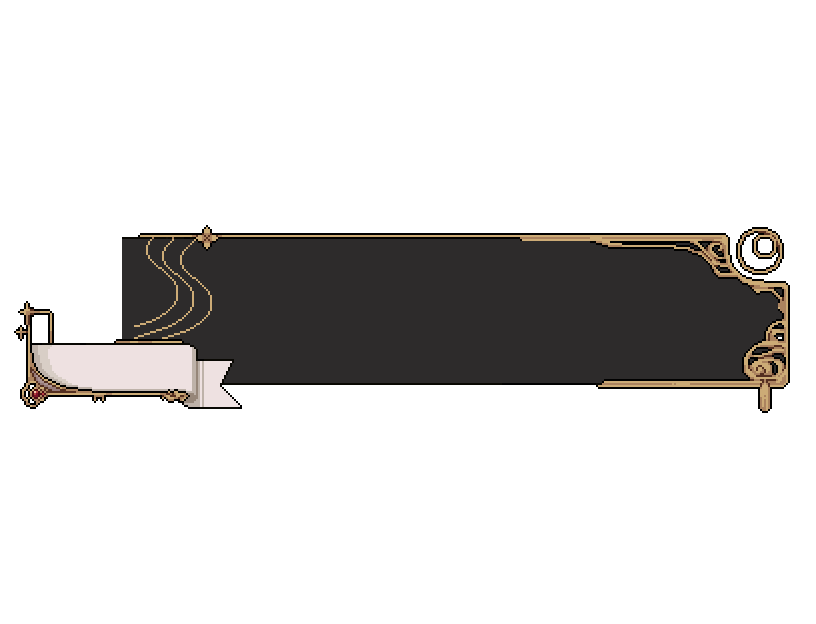
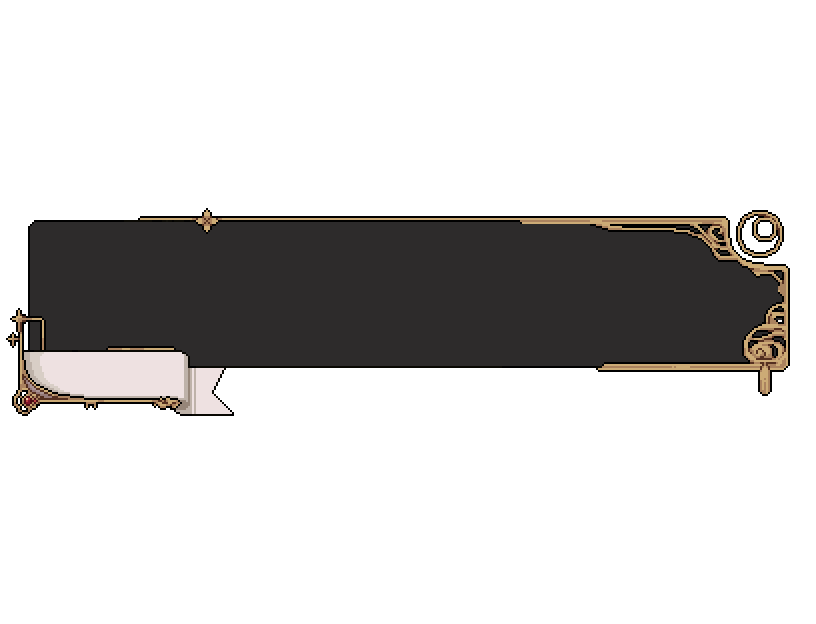
3/13 调整对话框

Changed region(s): [[0.0, 0.3349, 0.9804, 0.6699]]

diff --git a/js/plugins.js b/js/plugins.js
@@ -15,15 +15,15 @@ var $plugins =
 {"name":"----地图----","status":false,"description":"","parameters":{}},
 {"name":"GALV_LayerGraphics","status":true,"description":"(v.2.0) Create graphic layers for parallax mapping, fog, etc. View the 'Help' document for plugin commands and info.","parameters":{"Tile Size":"48"}},
 {"name":"----对话框----","status":false,"description":"","parameters":{}},
-{"name":"YEP_MessageCore","status":true,"description":"v1.19 [v1.1]  对话框 - 消息核心","parameters":{"---对话框---":"","默认行数":"4","默认宽度":"Graphics.boxWidth-100","含头像时文字间距":"Window_Base._faceWidth","初始是否启用快进键":"true","快进键":"pagedown","是否启用英文单词换行":"false","是否启用帮助窗口单词换行":"false","是否把所有换行符变成空格":"false","含头像时是否缩小文字宽度":"false","---消息字体---":"","默认模式的消息字体":"GameFont, IPix","中文模式的消息字体":"GameFont, IPix","日韩模式的消息字体":"GameFont, IPix","默认消息字体大小":"24","默认消息文字边厚度":"4","是否保持特殊字符的改变":"false","---姓名框---":"","平移-姓名框 X":"10","平移-姓名框 Y":"160","姓名框内边距":"this.standardPadding() * 4","姓名框文本颜色":"0","姓名框前缀":"\\c[15]\\{","是否关闭姓名框背景":"true","姓名框是否长期显示":"true"}},
+{"name":"YEP_MessageCore","status":true,"description":"v1.19 [v1.1]  对话框 - 消息核心","parameters":{"---对话框---":"","默认行数":"4","默认宽度":"Graphics.boxWidth-100","含头像时文字间距":"","初始是否启用快进键":"true","快进键":"pagedown","是否启用英文单词换行":"false","是否启用帮助窗口单词换行":"false","是否把所有换行符变成空格":"false","含头像时是否缩小文字宽度":"false","---消息字体---":"","默认模式的消息字体":"GameFont, IPix","中文模式的消息字体":"GameFont, IPix","日韩模式的消息字体":"GameFont, IPix","默认消息字体大小":"24","默认消息文字边厚度":"4","是否保持特殊字符的改变":"false","---姓名框---":"","平移-姓名框 X":"-40","平移-姓名框 Y":"175","姓名框内边距":"this.standardPadding() * 4","姓名框文本颜色":"0","姓名框前缀":"\\c[15]","是否关闭姓名框背景":"true","姓名框是否长期显示":"true"}},
 {"name":"GALV_MessageBackground","status":true,"description":"(v.2.0) Displays an image behind messages in place of the windowskin","parameters":{"Image Variable ID":"1","Disable Switch ID":"1"}},
-{"name":"GALV_MessageBusts","status":true,"description":"(v.2.8) Displays a bust image instead of selected face image","parameters":{"Bust Priority":"1","Bust Position":"1","Text X Offset":"150","Fade Out Speed":"32","Filename Append":""}},
+{"name":"GALV_MessageBusts","status":true,"description":"(v.2.8) Displays a bust image instead of selected face image","parameters":{"Bust Priority":"0","Bust Position":"1","Text X Offset":"0","Fade Out Speed":"32","Filename Append":""}},
 {"name":"----UI美化----","status":false,"description":"","parameters":{}},
 {"name":"MOG_TimeSystem","status":true,"description":"(v1.6)[v1.3]  地图UI - 时间系统","parameters":{"---系统---":"","是否默认运行":"true","执行事件时是否停止":"true","对话时是否停止":"true","时间流动速度":"120","是否使用色调变换":"true","色调变换速度":"160","---用语---":"","星期名":"[\"周日\",\"周一\",\"周二\",\"周三\",\"周四\",\"周五\",\"周六\"]","季节名":"[\"春\",\"夏\",\"秋\",\"冬\"]","月份名":"[\"一月\",\"二月\",\"三月\",\"四月\",\"五月\",\"六月\",\"七月\",\"八月\",\"九月\",\"十月\",\"十一月\",\"十二月\"]","用语-时间":"时间","用语-星期":"星期","用语-季节":"季节","用语-日":"日","用语-月":"月","用语-年":"年","用语-游戏时长":"游戏时长","---触发开关---":"","黎明开关":"21","日出开关":"22","日间开关":"23","日落开关":"24","黄昏开关":"25","午夜开关":"26","白天开关":"27","黑夜开关":"28","星期开关":"[\"29\",\"30\",\"31\",\"32\",\"33\",\"34\",\"35\"]","月份开关":"[\"40\",\"41\",\"42\",\"43\",\"44\",\"45\",\"46\",\"47\",\"48\",\"49\",\"50\",\"51\"]","季节开关":"[\"36\",\"37\",\"38\",\"39\"]","---触发变量---":"","时":"13","分":"14","秒":"15","年":"16","月":"17","日":"18","星期":"19","季节":"20","---时间最大值---":"","最大分钟数":"60","最大小时数":"24","最大日期数":"30","最大星期数":"7","最大月份数":"12","最大季节数":"4","季节月跨度":"3","---时间初始化---":"","初始分钟":"0","初始小时":"12","初始日期":"1","初始星期":"1","初始月份":"1","初始季节":"1","初始年数":"1","是否根据日期自动算星期":"false","---画面色调---":"","黎明色调":"-60,-60,-60,0","日出色调":"30,30,30,0","日落色调":"36,-14,-14,0","黄昏色调":"-60,-60,-60,0","午夜色调":"-98,-98,-98,0","白天色调":"0,0,0,0","---窗口---":"","是否使用am/pm模式":"true","窗口是否在地图上显示":"true","窗口是否在菜单上显示":"false","平移-地图窗口 X":"576","平移-地图窗口 Y":"0","平移-菜单窗口 X":"0","平移-菜单窗口 Y":"324"}},
 {"name":"MOG_TimeSystem_Hud","status":true,"description":"(v1.7)[v1.4]  地图UI - 时间系统固定框","parameters":{"是否初始显示":"true","资源-固定框":"显示UI","平移-固定框 X":"510","平移-固定框 Y":"0","最小透明度":"60","字体大小":"22","字体是否为斜体":"true","是否显示指针":"false","资源-分针":"","资源-时针":"","平移-指针 X":"100","平移-指针 Y":"90","分针是否无缝转动":"false","时针是否无缝转动":"false","是否显示计时器":"false","平移-计时器 X":"70","平移-计时器 Y":"30","是否显示日期数值":"false","平移-日期数值 X":"70","平移-日期数值 Y":"2","是否显示月份数值":"false","平移-月份数值 X":"30","平移-月份数值 Y":"2","是否显示年数值":"false","平移-年数值 X":"-17","平移-年数值 Y":"2","是否显示时间段图标":"true","资源-时间段图标":"时间段图标","平移-时间段图标 X":"214","平移-时间段图标 Y":"24","是否显示季节图标":"false","资源-季节图标":"","平移-季节图标 X":"88","平移-季节图标 Y":"88","是否显示星期文字":"false","平移-星期文字 X":"40","平移-星期文字 Y":"44"}},
 {"name":"MOG_ActorHud","status":true,"description":"(v1.9)[v1.6]  地图UI - 玩家信息固定框","parameters":{"是否初始显示":"true","资源-固定框":"生命框","平移-整个固定框 X":"510","平移-整个固定框 Y":"0","最小透明度":"60","------头像------":"","是否显示头像":"false","平移-头像 X":"55","平移-头像 Y":"50","受伤是否震动头像":"true","头像是否使用缩放效果":"true","受伤头像动画帧":"false","头像的优先权":"1","------角色名------":"","是否显示角色名":"false","平移-角色名 X":"5","平移-角色名 Y":"20","角色名字体大小":"20","角色名字体粗细":"4","角色名字体是否为斜体":"false","------生命------":"","是否显示生命条":"false","资源-生命条":"","平移-生命条 X":"130","平移-生命条 Y":"50","角度-生命条":"0","生命条是否流动":"false","是否显示生命数值":"false","资源-生命数值":"","生命数值最大显示位":"6","平移-生命数值 X":"0","平移-生命数值 Y":"50","生命数值文本对齐方式":"0","是否显示最大生命数值":"false","平移-最大生命数值 X":"185","平移-最大生命数值 Y":"40","是否显示生命图标":"true","资源-生命图标":"生命图标","是否使用半血模式":"false","生命图标值跨度":"1","生命图标种类最大数量":"2","生命图标列数":"5","生命图标行数":"1","平移-生命图标 X":"160","平移-生命图标 Y":"115","生命图标间距 X":"-5","生命图标间距 Y":"0","生命图标是否使用缩放效果":"false","------魔法------":"","是否显示魔法条":"false","资源-魔法条":"","平移-魔法条 X":"160","平移-魔法条 Y":"115","角度-魔法条":"0","魔法条是否流动":"false","是否显示魔法数值":"false","资源-魔法数值":"","魔法数值最大显示位":"6","平移-魔法数值 X":"287","平移-魔法数值 Y":"100","魔法数值文本对齐方式":"0","是否显示最大魔法数值":"false","平移-最大魔法数值 X":"196","平移-最大魔法数值 Y":"78","是否显示魔法图标":"false","资源-魔法图标":"","是否使用半魔模式":"false","魔法图标值跨度":"1","魔法图标种类最大数量":"7","魔法图标列数":"20","魔法图标行数":"1","平移-魔法图标 X":"50","平移-魔法图标 Y":"20","魔法图标间距 X":"0","魔法图标间距 Y":"0","魔法图标是否使用缩放效果":"true","------怒气------":"","是否显示怒气条":"false","资源-怒气条":"","平移-怒气条 X":"143","平移-怒气条 Y":"145","角度-怒气条":"0","怒气条是否流动":"true","是否显示怒气数值":"false","怒气数值最大显示位":"3","资源-怒气数值":"","平移-怒气数值 X":"270","平移-怒气数值 Y":"130","怒气数值文本对齐方式":"0","是否显示最大怒气数值":"false","平移-最大怒气数值 X":"185","平移-最大怒气数值 Y":"116","是否显示怒气图标":"false","资源-怒气图标":"","是否使用半怒模式":"false","怒气图标值跨度":"1","怒气图标种类最大数量":"7","怒气图标列数":"10","怒气图标行数":"1","平移-怒气图标 X":"50","平移-怒气图标 Y":"20","怒气图标间距 X":"0","怒气图标间距 Y":"0","怒气图标是否使用缩放效果":"true","------经验------":"","是否显示经验条":"false","资源-经验条":"","平移-经验条 X":"127","平移-经验条 Y":"173","角度-经验条":"0","是否显示等级数值":"false","等级数值最大显示位":"4","平移-等级数值 X":"65","平移-等级数值 Y":"153","等级数值文本对齐方式":"1","资源-等级数值":"","------状态------":"","是否显示状态":"false","平移-状态 X":"5","平移-状态 Y":"64","---------------------------":"","---角色头像 1至20---":"","角色头像-1":"","角色头像-2":"","角色头像-3":"","角色头像-4":"","角色头像-5":"","角色头像-6":"","角色头像-7":"","角色头像-8":"","角色头像-9":"","角色头像-10":"","角色头像-11":"","角色头像-12":"","角色头像-13":"","角色头像-14":"","角色头像-15":"","角色头像-16":"","角色头像-17":"","角色头像-18":"","角色头像-19":"","角色头像-20":"","---角色头像21至40---":"","角色头像-21":"","角色头像-22":"","角色头像-23":"","角色头像-24":"","角色头像-25":"","角色头像-26":"","角色头像-27":"","角色头像-28":"","角色头像-29":"","角色头像-30":"","角色头像-31":"","角色头像-32":"","角色头像-33":"","角色头像-34":"","角色头像-35":"","角色头像-36":"","角色头像-37":"","角色头像-38":"","角色头像-39":"","角色头像-40":"","---角色头像41至60---":"","角色头像-41":"","角色头像-42":"","角色头像-43":"","角色头像-44":"","角色头像-45":"","角色头像-46":"","角色头像-47":"","角色头像-48":"","角色头像-49":"","角色头像-50":"","角色头像-51":"","角色头像-52":"","角色头像-53":"","角色头像-54":"","角色头像-55":"","角色头像-56":"","角色头像-57":"","角色头像-58":"","角色头像-59":"","角色头像-60":""}},
 {"name":"----菜单----","status":false,"description":"","parameters":{}},
-{"name":"MOG_SceneItem","status":true,"description":"(v1.1)[v1.8]  面板 - 全自定义道具界面","parameters":{"----杂项----":"","资源-整体布局":"道具界面-布局","平移-帮助信息 X":"0","平移-帮助信息 Y":"516","----物品类型----":"","资源-道具选项":"道具界面-道具选项","平移-道具选项 X":"280","平移-道具选项 Y":"50","资源-武器选项":"道具界面-武器选项","平移-武器选项 X":"420","平移-武器选项 Y":"50","资源-防具选项":"道具界面-防具选项","平移-防具选项 X":"560","平移-防具选项 Y":"50","资源-关键道具选项":"道具界面-关键道具选项","平移-关键道具选项 X":"700","平移-关键道具选项 Y":"50","是否使用缩放效果":"false","是否使用闪烁效果":"false","浮动偏移量":"8","是否使用左右浮动":"false","是否使用上下浮动":"true","----物品窗口----":"","平移-物品窗口 X":"0","平移-物品窗口 Y":"96","物品窗口左起点 X":"-60","物品窗口左起点 Y":"0","物品窗口右起点 X":"60","物品窗口右起点 Y":"0","物品窗口移动时长":"30","是否使用物品窗口布局":"true","资源-物品窗口":"道具界面-物品窗口","平移-物品窗口布局 X":"0","平移-物品窗口布局 Y":"0","物品窗口宽度":"370","物品窗口高度":"400","物品窗口字体大小":"22","物品窗口列数":"1","----选择框----":"","资源-选择框":"道具界面-选择框","资源-界限箭头":"道具界面-界限箭头","资源-选择全部角色":"道具界面-选择全部角色","平移-选择框-当前 X":"10","平移-选择框-当前 Y":"240","平移-选择框-隐藏 X":"-270","平移-选择框-隐藏 Y":"240","平移-选择框-上一个 X":"-10","平移-选择框-上一个 Y":"140","平移-选择框-下一个 X":"-10","平移-选择框-下一个 Y":"340","选择框字体大小":"20","平移-框角色名 X":"20","平移-框角色名 Y":"40","资源-生命条":"道具界面-生命条","平移-生命条 X":"16","平移-生命条 Y":"30","平移-生命数值 X":"20","平移-生命数值 Y":"3","资源-魔法条":"道具界面-魔法条","平移-魔法条 X":"113","平移-魔法条 Y":"30","平移-魔法数值 X":"118","平移-魔法数值 Y":"3","平移-框角色状态 X":"165","平移-框角色状态 Y":"30","----角色窗口----":"","平移-角色窗口 X":"600","平移-角色窗口 Y":"200","角色窗口起点 X":"100","角色窗口起点 Y":"0","角色窗口移动时长":"20","资源-角色窗口":"道具界面-角色窗口","平移-角色窗口布局 X":"0","平移-角色窗口布局 Y":"0","角色窗口字体大小":"22","平移-角色状态 X":"23","平移-角色状态 Y":"15","平移-角色名 X":"70","平移-角色名 Y":"30","平移-角色能力值组 X":"0","平移-角色能力值组 Y":"0","角色能力值横向间距":"90","角色能力值纵向间距":"33","平移-角色头像 X":"90","平移-角色头像 Y":"-65","---角色头像 1至20---":"","角色头像-1":"","角色头像-2":"","角色头像-3":"","角色头像-4":"","角色头像-5":"","角色头像-6":"","角色头像-7":"","角色头像-8":"","角色头像-9":"","角色头像-10":"","角色头像-11":"","角色头像-12":"","角色头像-13":"","角色头像-14":"","角色头像-15":"","角色头像-16":"","角色头像-17":"","角色头像-18":"","角色头像-19":"","角色头像-20":"","---角色头像21至40---":"","角色头像-21":"","角色头像-22":"","角色头像-23":"","角色头像-24":"","角色头像-25":"","角色头像-26":"","角色头像-27":"","角色头像-28":"","角色头像-29":"","角色头像-30":"","角色头像-31":"","角色头像-32":"","角色头像-33":"","角色头像-34":"","角色头像-35":"","角色头像-36":"","角色头像-37":"","角色头像-38":"","角色头像-39":"","角色头像-40":"","---角色头像41至60---":"","角色头像-41":"","角色头像-42":"","角色头像-43":"","角色头像-44":"","角色头像-45":"","角色头像-46":"","角色头像-47":"","角色头像-48":"","角色头像-49":"","角色头像-50":"","角色头像-51":"","角色头像-52":"","角色头像-53":"","角色头像-54":"","角色头像-55":"","角色头像-56":"","角色头像-57":"","角色头像-58":"","角色头像-59":"","角色头像-60":""}},
+{"name":"MOG_SceneItem","status":true,"description":"(v1.1)[v1.8]  面板 - 全自定义道具界面","parameters":{"----杂项----":"","资源-整体布局":"道具界面-布局","平移-帮助信息 X":"0","平移-帮助信息 Y":"516","----物品类型----":"","资源-道具选项":"道具界面-道具选项","平移-道具选项 X":"280","平移-道具选项 Y":"50","资源-武器选项":"道具界面-武器选项","平移-武器选项 X":"420","平移-武器选项 Y":"50","资源-防具选项":"道具界面-防具选项","平移-防具选项 X":"560","平移-防具选项 Y":"50","资源-关键道具选项":"道具界面-关键道具选项","平移-关键道具选项 X":"700","平移-关键道具选项 Y":"50","是否使用缩放效果":"false","是否使用闪烁效果":"false","浮动偏移量":"8","是否使用左右浮动":"false","是否使用上下浮动":"true","----物品窗口----":"","平移-物品窗口 X":"0","平移-物品窗口 Y":"96","物品窗口左起点 X":"-60","物品窗口左起点 Y":"0","物品窗口右起点 X":"60","物品窗口右起点 Y":"0","物品窗口移动时长":"30","是否使用物品窗口布局":"true","资源-物品窗口":"道具界面-物品窗口","平移-物品窗口布局 X":"0","平移-物品窗口布局 Y":"0","物品窗口宽度":"370","物品窗口高度":"400","物品窗口字体大小":"22","物品窗口列数":"1","----选择框----":"","资源-选择框":"道具界面-选择框","资源-界限箭头":"道具界面-界限箭头","资源-选择全部角色":"道具界面-选择全部角色","平移-选择框-当前 X":"10","平移-选择框-当前 Y":"240","平移-选择框-隐藏 X":"-270","平移-选择框-隐藏 Y":"240","平移-选择框-上一个 X":"-10","平移-选择框-上一个 Y":"140","平移-选择框-下一个 X":"-10","平移-选择框-下一个 Y":"340","选择框字体大小":"20","平移-框角色名 X":"20","平移-框角色名 Y":"40","资源-生命条":"道具界面-生命条","平移-生命条 X":"16","平移-生命条 Y":"30","平移-生命数值 X":"20","平移-生命数值 Y":"3","资源-魔法条":"","平移-魔法条 X":"113","平移-魔法条 Y":"30","平移-魔法数值 X":"118","平移-魔法数值 Y":"3","平移-框角色状态 X":"165","平移-框角色状态 Y":"30","----角色窗口----":"","平移-角色窗口 X":"600","平移-角色窗口 Y":"200","角色窗口起点 X":"100","角色窗口起点 Y":"0","角色窗口移动时长":"20","资源-角色窗口":"道具界面-角色窗口","平移-角色窗口布局 X":"0","平移-角色窗口布局 Y":"0","角色窗口字体大小":"22","平移-角色状态 X":"23","平移-角色状态 Y":"15","平移-角色名 X":"70","平移-角色名 Y":"30","平移-角色能力值组 X":"0","平移-角色能力值组 Y":"0","角色能力值横向间距":"90","角色能力值纵向间距":"33","平移-角色头像 X":"90","平移-角色头像 Y":"-65","---角色头像 1至20---":"","角色头像-1":"","角色头像-2":"","角色头像-3":"","角色头像-4":"","角色头像-5":"","角色头像-6":"","角色头像-7":"","角色头像-8":"","角色头像-9":"","角色头像-10":"","角色头像-11":"","角色头像-12":"","角色头像-13":"","角色头像-14":"","角色头像-15":"","角色头像-16":"","角色头像-17":"","角色头像-18":"","角色头像-19":"","角色头像-20":"","---角色头像21至40---":"","角色头像-21":"","角色头像-22":"","角色头像-23":"","角色头像-24":"","角色头像-25":"","角色头像-26":"","角色头像-27":"","角色头像-28":"","角色头像-29":"","角色头像-30":"","角色头像-31":"","角色头像-32":"","角色头像-33":"","角色头像-34":"","角色头像-35":"","角色头像-36":"","角色头像-37":"","角色头像-38":"","角色头像-39":"","角色头像-40":"","---角色头像41至60---":"","角色头像-41":"","角色头像-42":"","角色头像-43":"","角色头像-44":"","角色头像-45":"","角色头像-46":"","角色头像-47":"","角色头像-48":"","角色头像-49":"","角色头像-50":"","角色头像-51":"","角色头像-52":"","角色头像-53":"","角色头像-54":"","角色头像-55":"","角色头像-56":"","角色头像-57":"","角色头像-58":"","角色头像-59":"","角色头像-60":""}},
 {"name":"MOG_SceneFile","status":true,"description":"(v1.0)[v1.8]  面板 - 全自定义存档界面","parameters":{"----杂项数据----":"","资源-整体布局":"存档界面-整体布局","最大存档数":"6","用语-没有存档":"- 没有存档 -","平移-帮助信息 X":"20","平移-帮助信息 Y":"520","----游戏截图----":"","存档是否存储截图":"true","平移-截图 X":"411","平移-截图 Y":"149","截图起点 X":"100","截图起点 Y":"0","截图移动时长":"20","截图宽度":"330","截图高度":"253","----选择窗口----":"","平移-选择窗口 X":"20","平移-选择窗口 Y":"160","选择窗口宽度":"295","选择窗口高度":"375","选择窗口字体大小":"22","选择窗口列数":"2","选择窗口选项高度":"100","是否转换选择窗口":"true","资源-可选对象":"存档界面-可选对象","资源-选择指针":"存档界面-选择指针","平移-选择指针 X":"0","平移-选择指针 Y":"0","----角色窗口----":"","平移-角色窗口 X":"330","平移-角色窗口 Y":"25","角色窗口起点 X":"-100","角色窗口起点 Y":"0","角色窗口移动时长":"25","是否使用角色窗口布局":"true","资源-角色窗口":"存档界面-角色窗口","角色窗口布局 X":"0","角色窗口布局 Y":"0","角色窗口宽度":"465","角色窗口高度":"580","角色窗口字体大小":"22","是否显示属性":"true","角色窗口属性颜色":"23","用语-游戏时长":"游戏时长","平移-游戏时长 X":"246","平移-游戏时长 Y":"0","用语-所在地":"所在地","平移-所在地 X":"0","平移-所在地 Y":"0","平移-角色名 X":"210","平移-角色名 Y":"332","平移-等级 X":"324","平移-等级 Y":"332","平移-金钱 X":"0","平移-金钱 Y":"200","平移-能力值组 X":"0","平移-能力值组 Y":"300","能力值组横向间距":"150","能力值组纵向间距":"28","是否显示最大生命与魔法":"false","平移-角色前视图 X":"580","平移-角色前视图 Y":"410","角色前视图起点 X":"80","角色前视图起点 Y":"0","角色前视图移动时长":"30","==角色前视图 1至20==":"","角色前视图-1":"","角色前视图-2":"","角色前视图-3":"","角色前视图-4":"","角色前视图-5":"","角色前视图-6":"","角色前视图-7":"","角色前视图-8":"","角色前视图-9":"","角色前视图-10":"","角色前视图-11":"","角色前视图-12":"","角色前视图-13":"","角色前视图-14":"","角色前视图-15":"","角色前视图-16":"","角色前视图-17":"","角色前视图-18":"","角色前视图-19":"","角色前视图-20":"","==角色前视图21至40==":"","角色前视图-21":"","角色前视图-22":"","角色前视图-23":"","角色前视图-24":"","角色前视图-25":"","角色前视图-26":"","角色前视图-27":"","角色前视图-28":"","角色前视图-29":"","角色前视图-30":"","角色前视图-31":"","角色前视图-32":"","角色前视图-33":"","角色前视图-34":"","角色前视图-35":"","角色前视图-36":"","角色前视图-37":"","角色前视图-38":"","角色前视图-39":"","角色前视图-40":"","==角色前视图41至60==":"","角色前视图-41":"","角色前视图-42":"","角色前视图-43":"","角色前视图-44":"","角色前视图-45":"","角色前视图-46":"","角色前视图-47":"","角色前视图-48":"","角色前视图-49":"","角色前视图-50":"","角色前视图-51":"","角色前视图-52":"","角色前视图-53":"","角色前视图-54":"","角色前视图-55":"","角色前视图-56":"","角色前视图-57":"","角色前视图-58":"","角色前视图-59":"","角色前视图-60":""}},
 {"name":"Drill_ItemCategory","status":true,"description":"[v1.5]        控件 - 物品类型","parameters":{"物品界面物品类型":"[\"物品\",\"武器\",\"护甲\",\"重要物品\"]","商店出售物品类型":"[\"物品\",\"武器\",\"护甲\",\"重要物品\"]","---物品类型组---":"","物品类型-1":"","物品类型-2":"","物品类型-3":"","物品类型-4":"","物品类型-5":"","物品类型-6":"","物品类型-7":"","物品类型-8":"","物品类型-9":"","物品类型-10":""}},
 {"name":"Drill_SceneMain","status":true,"description":"[v1.5]        面板 - 全自定义主菜单面板","parameters":{"----杂项----":"","资源-整体布局":"主菜单-布局","是否显示所在地图名":"false","平移-所在地图名 X":"545","平移-所在地图名 Y":"575","所在地图名字体大小":"24","所在地图名对齐方式":"居中","----时间显示----":"","是否显示累积游戏时长":"false","平移-累积游戏时长 X":"520","平移-累积游戏时长 Y":"75","累积游戏时长的时间格式":"HH:mm:ss","累积游戏时长字体大小":"20","是否显示真实时间":"false","平移-真实时间 X":"430","平移-真实时间 Y":"50","真实时间的时间格式":"yyyy年MM月dd日 HH:mm:ss","真实时间字体大小":"20","是否显示游戏世界时间":"false","平移-游戏世界时间 X":"430","平移-游戏世界时间 Y":"25","游戏世界时间的时间格式":"yyyy年MM月dd日 HH:mm:ss","游戏世界时间字体大小":"20","----金钱显示----":"","金钱显示模式":"窗口模式","金钱参数数字":"{\"金钱数字 X\":\"175\",\"金钱数字 Y\":\"588\",\"---主体---\":\"\",\"资源-基本符号\":\"金钱数字-基本符号\",\"资源-扩展符号\":\"\",\"---符号---\":\"\",\"额外符号前缀\":\"\",\"额外符号后缀\":\"\",\"---排列---\":\"\",\"对齐方式\":\"右对齐\",\"最大符号数量\":\"20\",\"符号间间距\":\"-2\",\"排列宽度模式\":\"不限制宽度\",\"排列限制宽度\":\"300\",\"---滚动效果---\":\"\",\"滚动模式\":\"瞬间变化\",\"弹性变化速度\":\"10.0\"}","金钱窗口":"{\"金钱窗口 X\":\"60\",\"金钱窗口 Y\":\"555\",\"金钱窗口宽度\":\"240\",\"金钱窗口高度\":\"70\",\"金钱窗口字体大小\":\"22\",\"金钱窗口移动动画\":\"{\\\"移动类型\\\":\\\"弹性移动\\\",\\\"移动时长\\\":\\\"20\\\",\\\"移动延迟\\\":\\\"0\\\",\\\"---起点---\\\":\\\"\\\",\\\"坐标类型\\\":\\\"相对坐标\\\",\\\"起点-相对坐标 X\\\":\\\"0\\\",\\\"起点-相对坐标 Y\\\":\\\"100\\\",\\\"起点-绝对坐标 X\\\":\\\"0\\\",\\\"起点-绝对坐标 Y\\\":\\\"0\\\"}\",\"金钱窗口布局\":\"{\\\"布局类型\\\":\\\"隐藏布局\\\",\\\"---单张背景贴图---\\\":\\\"\\\",\\\"资源-贴图\\\":\\\"主菜单-金钱窗口\\\",\\\"贴图位置修正 X\\\":\\\"0\\\",\\\"贴图位置修正 Y\\\":\\\"0\\\"}\"}","----菜单选项----":"","菜单选项模式":"按钮组模式","菜单选项按钮组":"{\"平移-按钮组 X\":\"380\",\"平移-按钮组 Y\":\"400\",\"按钮组样式\":\"3\",\"---按钮贴图---\":\"\",\"DEBUG-按钮关键字搜索\":\"false\",\"默认按钮贴图\":\"\",\"按钮贴图序列\":\"[\\\"{\\\\\\\"标签\\\\\\\":\\\\\\\"--道具--\\\\\\\",\\\\\\\"指定按钮\\\\\\\":\\\\\\\"道具\\\\\\\",\\\\\\\"关键字\\\\\\\":\\\\\\\"\\\\\\\",\\\\\\\"按钮贴图\\\\\\\":\\\\\\\"btn_道具\\\\\\\"}\\\",\\\"{\\\\\\\"标签\\\\\\\":\\\\\\\"--技能--\\\\\\\",\\\\\\\"指定按钮\\\\\\\":\\\\\\\"技能\\\\\\\",\\\\\\\"关键字\\\\\\\":\\\\\\\"\\\\\\\",\\\\\\\"按钮贴图\\\\\\\":\\\\\\\"btn_技能\\\\\\\"}\\\",\\\"{\\\\\\\"标签\\\\\\\":\\\\\\\"--装备--\\\\\\\",\\\\\\\"指定按钮\\\\\\\":\\\\\\\"装备\\\\\\\",\\\\\\\"关键字\\\\\\\":\\\\\\\"\\\\\\\",\\\\\\\"按钮贴图\\\\\\\":\\\\\\\"btn_装备\\\\\\\"}\\\",\\\"{\\\\\\\"标签\\\\\\\":\\\\\\\"--状态--\\\\\\\",\\\\\\\"指定按钮\\\\\\\":\\\\\\\"状态\\\\\\\",\\\\\\\"关键字\\\\\\\":\\\\\\\"\\\\\\\",\\\\\\\"按钮贴图\\\\\\\":\\\\\\\"btn_状态\\\\\\\"}\\\",\\\"{\\\\\\\"标签\\\\\\\":\\\\\\\"--队形--\\\\\\\",\\\\\\\"指定按钮\\\\\\\":\\\\\\\"队形\\\\\\\",\\\\\\\"关键字\\\\\\\":\\\\\\\"\\\\\\\",\\\\\\\"按钮贴图\\\\\\\":\\\\\\\"btn_队形\\\\\\\"}\\\",\\\"{\\\\\\\"标签\\\\\\\":\\\\\\\"--选项--\\\\\\\",\\\\\\\"指定按钮\\\\\\\":\\\\\\\"选项\\\\\\\",\\\\\\\"关键字\\\\\\\":\\\\\\\"\\\\\\\",\\\\\\\"按钮贴图\\\\\\\":\\\\\\\"btn_选项\\\\\\\"}\\\",\\\"{\\\\\\\"标签\\\\\\\":\\\\\\\"--保存--\\\\\\\",\\\\\\\"指定按钮\\\\\\\":\\\\\\\"保存\\\\\\\",\\\\\\\"关键字\\\\\\\":\\\\\\\"\\\\\\\",\\\\\\\"按钮贴图\\\\\\\":\\\\\\\"btn_保存\\\\\\\"}\\\",\\\"{\\\\\\\"标签\\\\\\\":\\\\\\\"--游戏结束--\\\\\\\",\\\\\\\"指定按钮\\\\\\\":\\\\\\\"游戏结束\\\\\\\",\\\\\\\"关键字\\\\\\\":\\\\\\\"\\\\\\\",\\\\\\\"按钮贴图\\\\\\\":\\\\\\\"btn_游戏结束\\\\\\\"}\\\"]\",\"---激活的按钮---\":\"\",\"按钮激活后是否出列\":\"true\",\"激活后出列变化时长\":\"20\",\"激活后出列绝对坐标 X\":\"150\",\"激活后出列绝对坐标 Y\":\"467\"}","菜单选项窗口":"{\"菜单选项窗口 X\":\"300\",\"菜单选项窗口 Y\":\"150\",\"菜单选项窗口宽度\":\"240\",\"菜单选项窗口高度\":\"340\",\"菜单选项窗口列数\":\"1\",\"菜单选项窗口字体大小\":\"22\",\"菜单选项窗口移动动画\":\"{\\\"移动类型\\\":\\\"弹性移动\\\",\\\"移动时长\\\":\\\"20\\\",\\\"移动延迟\\\":\\\"0\\\",\\\"---起点---\\\":\\\"\\\",\\\"坐标类型\\\":\\\"相对坐标\\\",\\\"起点-相对坐标 X\\\":\\\"-80\\\",\\\"起点-相对坐标 Y\\\":\\\"0\\\",\\\"起点-绝对坐标 X\\\":\\\"0\\\",\\\"起点-绝对坐标 Y\\\":\\\"0\\\"}\",\"菜单选项窗口布局\":\"{\\\"布局类型\\\":\\\"默认皮肤\\\",\\\"---单张背景贴图---\\\":\\\"\\\",\\\"资源-贴图\\\":\\\"主菜单-菜单选项窗口\\\",\\\"贴图位置修正 X\\\":\\\"0\\\",\\\"贴图位置修正 Y\\\":\\\"0\\\"}\",\"菜单选项对齐方式\":\"居中\",\"菜单选项窗口指针与边框\":\"{}\"}","----角色头像按钮----":"","流程-只一个角色时是否跳过选头像":"false","角色头像按钮组":"{\"平移-按钮组 X\":\"408\",\"平移-按钮组 Y\":\"312\",\"按钮组样式\":\"1\",\"---头像按钮贴图---\":\"\",\"默认头像按钮贴图\":\"\",\"头像按钮贴图序列\":\"[]\"}","可显示的角色头像数量":"1","----角色固定框----":"","---角色固定框样式---":"","角色固定框样式-1":"{\"标签\":\"--一般面板样式--\",\"----参数条----\":\"\",\"生命-是否显示参数条\":\"false\",\"生命-参数条配置\":\"{\\\"---主体---\\\":\\\"\\\",\\\"平移-参数条 X\\\":\\\"50\\\",\\\"平移-参数条 Y\\\":\\\"88\\\",\\\"整体旋转角度\\\":\\\"0\\\",\\\"资源-参数条\\\":\\\"主菜单-生命条\\\",\\\"资源-参数条遮罩\\\":\\\"\\\",\\\"---加满动画---\\\":\\\"\\\",\\\"是否启用加满动画\\\":\\\"true\\\",\\\"加满方式\\\":\\\"匀速加满\\\",\\\"加满持续时间\\\":\\\"20\\\",\\\"加满延迟\\\":\\\"10\\\",\\\"---段---\\\":\\\"\\\",\\\"是否使用流动效果\\\":\\\"true\\\",\\\"流动方向\\\":\\\"从右往左\\\",\\\"流动速度\\\":\\\"2.2\\\",\\\"流动段划分模式\\\":\\\"三等份划分\\\",\\\"段长度\\\":\\\"0\\\",\\\"---粒子效果---\\\":\\\"\\\",\\\"是否启用粒子效果\\\":\\\"false\\\",\\\"资源-粒子\\\":\\\"参数条-默认粒子\\\",\\\"粒子出现模式\\\":\\\"底部出现\\\",\\\"粒子X速度\\\":\\\"0\\\",\\\"粒子Y速度\\\":\\\"-1.5\\\",\\\"粒子数量\\\":\\\"20\\\",\\\"粒子持续时间\\\":\\\"20\\\",\\\"---游标---\\\":\\\"\\\",\\\"是否启用游标\\\":\\\"false\\\",\\\"资源-游标\\\":\\\"[\\\\\\\"参数条-默认游标\\\\\\\"]\\\",\\\"动画帧间隔\\\":\\\"4\\\",\\\"是否倒放\\\":\\\"false\\\",\\\"偏移-游标 X\\\":\\\"0\\\",\\\"偏移-游标 Y\\\":\\\"0\\\",\\\"游标显示模式\\\":\\\"一直显示\\\",\\\"遮罩是否能遮挡游标\\\":\\\"false\\\"}\",\"魔法-是否显示参数条\":\"false\",\"魔法-参数条配置\":\"{\\\"---主体---\\\":\\\"\\\",\\\"平移-参数条 X\\\":\\\"65\\\",\\\"平移-参数条 Y\\\":\\\"111\\\",\\\"整体旋转角度\\\":\\\"0\\\",\\\"资源-参数条\\\":\\\"主菜单-魔法条\\\",\\\"资源-参数条遮罩\\\":\\\"\\\",\\\"---加满动画---\\\":\\\"\\\",\\\"是否启用加满动画\\\":\\\"true\\\",\\\"加满方式\\\":\\\"匀速加满\\\",\\\"加满持续时间\\\":\\\"20\\\",\\\"加满延迟\\\":\\\"10\\\",\\\"---段---\\\":\\\"\\\",\\\"是否使用流动效果\\\":\\\"true\\\",\\\"流动方向\\\":\\\"从右往左\\\",\\\"流动速度\\\":\\\"2.5\\\",\\\"流动段划分模式\\\":\\\"三等份划分\\\",\\\"段长度\\\":\\\"0\\\",\\\"---粒子效果---\\\":\\\"\\\",\\\"是否启用粒子效果\\\":\\\"false\\\",\\\"资源-粒子\\\":\\\"参数条-默认粒子\\\",\\\"粒子出现模式\\\":\\\"底部出现\\\",\\\"粒子X速度\\\":\\\"0\\\",\\\"粒子Y速度\\\":\\\"-1.5\\\",\\\"粒子数量\\\":\\\"20\\\",\\\"粒子持续时间\\\":\\\"20\\\",\\\"---游标---\\\":\\\"\\\",\\\"是否启用游标\\\":\\\"false\\\",\\\"资源-游标\\\":\\\"[\\\\\\\"参数条-默认游标\\\\\\\"]\\\",\\\"动画帧间隔\\\":\\\"4\\\",\\\"是否倒放\\\":\\\"false\\\",\\\"偏移-游标 X\\\":\\\"0\\\",\\\"偏移-游标 Y\\\":\\\"0\\\",\\\"游标显示模式\\\":\\\"一直显示\\\",\\\"遮罩是否能遮挡游标\\\":\\\"false\\\"}\",\"怒气-是否显示参数条\":\"false\",\"怒气-参数条配置\":\"{\\\"---主体---\\\":\\\"\\\",\\\"平移-参数条 X\\\":\\\"50\\\",\\\"平移-参数条 Y\\\":\\\"135\\\",\\\"整体旋转角度\\\":\\\"0\\\",\\\"资源-参数条\\\":\\\"主菜单-怒气条\\\",\\\"资源-参数条遮罩\\\":\\\"\\\",\\\"---加满动画---\\\":\\\"\\\",\\\"是否启用加满动画\\\":\\\"true\\\",\\\"加满方式\\\":\\\"匀速加满\\\",\\\"加满持续时间\\\":\\\"20\\\",\\\"加满延迟\\\":\\\"10\\\",\\\"---段---\\\":\\\"\\\",\\\"是否使用流动效果\\\":\\\"true\\\",\\\"流动方向\\\":\\\"从右往左\\\",\\\"流动速度\\\":\\\"2.8\\\",\\\"流动段划分模式\\\":\\\"三等份划分\\\",\\\"段长度\\\":\\\"0\\\",\\\"---粒子效果---\\\":\\\"\\\",\\\"是否启用粒子效果\\\":\\\"false\\\",\\\"资源-粒子\\\":\\\"参数条-默认粒子\\\",\\\"粒子出现模式\\\":\\\"底部出现\\\",\\\"粒子X速度\\\":\\\"0\\\",\\\"粒子Y速度\\\":\\\"-1.5\\\",\\\"粒子数量\\\":\\\"20\\\",\\\"粒子持续时间\\\":\\\"20\\\",\\\"---游标---\\\":\\\"\\\",\\\"是否启用游标\\\":\\\"false\\\",\\\"资源-游标\\\":\\\"[\\\\\\\"参数条-默认游标\\\\\\\"]\\\",\\\"动画帧间隔\\\":\\\"4\\\",\\\"是否倒放\\\":\\\"false\\\",\\\"偏移-游标 X\\\":\\\"0\\\",\\\"偏移-游标 Y\\\":\\\"0\\\",\\\"游标显示模式\\\":\\\"一直显示\\\",\\\"遮罩是否能遮挡游标\\\":\\\"false\\\"}\",\"经验-是否显示参数条\":\"false\",\"经验-参数条配置\":\"{\\\"---主体---\\\":\\\"\\\",\\\"平移-参数条 X\\\":\\\"65\\\",\\\"平移-参数条 Y\\\":\\\"158\\\",\\\"整体旋转角度\\\":\\\"0\\\",\\\"资源-参数条\\\":\\\"主菜单-经验条\\\",\\\"资源-参数条遮罩\\\":\\\"\\\",\\\"---加满动画---\\\":\\\"\\\",\\\"是否启用加满动画\\\":\\\"true\\\",\\\"加满方式\\\":\\\"匀速加满\\\",\\\"加满持续时间\\\":\\\"20\\\",\\\"加满延迟\\\":\\\"10\\\",\\\"---段---\\\":\\\"\\\",\\\"是否使用流动效果\\\":\\\"true\\\",\\\"流动方向\\\":\\\"从右往左\\\",\\\"流动速度\\\":\\\"3.0\\\",\\\"流动段划分模式\\\":\\\"三等份划分\\\",\\\"段长度\\\":\\\"0\\\",\\\"---粒子效果---\\\":\\\"\\\",\\\"是否启用粒子效果\\\":\\\"false\\\",\\\"资源-粒子\\\":\\\"参数条-默认粒子\\\",\\\"粒子出现模式\\\":\\\"底部出现\\\",\\\"粒子X速度\\\":\\\"0\\\",\\\"粒子Y速度\\\":\\\"-1.5\\\",\\\"粒子数量\\\":\\\"20\\\",\\\"粒子持续时间\\\":\\\"20\\\",\\\"---游标---\\\":\\\"\\\",\\\"是否启用游标\\\":\\\"false\\\",\\\"资源-游标\\\":\\\"[\\\\\\\"参数条-默认游标\\\\\\\"]\\\",\\\"动画帧间隔\\\":\\\"4\\\",\\\"是否倒放\\\":\\\"false\\\",\\\"偏移-游标 X\\\":\\\"0\\\",\\\"偏移-游标 Y\\\":\\\"0\\\",\\\"游标显示模式\\\":\\\"一直显示\\\",\\\"遮罩是否能遮挡游标\\\":\\\"false\\\"}\",\"----参数数字----\":\"\",\"生命-是否显示参数数字\":\"false\",\"生命-参数数字配置\":\"{\\\"---主体---\\\":\\\"\\\",\\\"平移-参数数字 X\\\":\\\"174\\\",\\\"平移-参数数字 Y\\\":\\\"87\\\",\\\"整体旋转角度\\\":\\\"0\\\",\\\"资源-基本符号\\\":\\\"主菜单-生命数值\\\",\\\"资源-扩展符号\\\":\\\"\\\",\\\"---符号---\\\":\\\"\\\",\\\"是否显示负号\\\":\\\"true\\\",\\\"额外符号前缀\\\":\\\"\\\",\\\"额外符号后缀\\\":\\\"\\\",\\\"---排列---\\\":\\\"\\\",\\\"对齐方式\\\":\\\"右对齐\\\",\\\"最大符号数量\\\":\\\"20\\\",\\\"符号间间距\\\":\\\"0\\\",\\\"排列宽度模式\\\":\\\"不限制宽度\\\",\\\"排列限制宽度\\\":\\\"300\\\",\\\"---滚动效果---\\\":\\\"\\\",\\\"滚动模式\\\":\\\"弹性滚动\\\",\\\"弹性变化速度\\\":\\\"3.0\\\",\\\"---额定值---\\\":\\\"\\\",\\\"是否显示额定值\\\":\\\"true\\\",\\\"达到条件时符号\\\":\\\"不变化\\\",\\\"资源-额定基本符号\\\":\\\"\\\",\\\"资源-额定扩展符号\\\":\\\"\\\"}\",\"魔法-是否显示参数数字\":\"false\",\"魔法-参数数字配置\":\"{\\\"---主体---\\\":\\\"\\\",\\\"平移-参数数字 X\\\":\\\"189\\\",\\\"平移-参数数字 Y\\\":\\\"110\\\",\\\"整体旋转角度\\\":\\\"0\\\",\\\"资源-基本符号\\\":\\\"主菜单-魔法数值\\\",\\\"资源-扩展符号\\\":\\\"\\\",\\\"---符号---\\\":\\\"\\\",\\\"是否显示负号\\\":\\\"true\\\",\\\"额外符号前缀\\\":\\\"\\\",\\\"额外符号后缀\\\":\\\"\\\",\\\"---排列---\\\":\\\"\\\",\\\"对齐方式\\\":\\\"右对齐\\\",\\\"最大符号数量\\\":\\\"20\\\",\\\"符号间间距\\\":\\\"0\\\",\\\"排列宽度模式\\\":\\\"不限制宽度\\\",\\\"排列限制宽度\\\":\\\"300\\\",\\\"---滚动效果---\\\":\\\"\\\",\\\"滚动模式\\\":\\\"弹性滚动\\\",\\\"弹性变化速度\\\":\\\"3.0\\\",\\\"---额定值---\\\":\\\"\\\",\\\"是否显示额定值\\\":\\\"true\\\",\\\"达到条件时符号\\\":\\\"不变化\\\",\\\"资源-额定基本符号\\\":\\\"\\\",\\\"资源-额定扩展符号\\\":\\\"\\\"}\",\"怒气-是否显示参数数字\":\"false\",\"怒气-参数数字配置\":\"{\\\"---主体---\\\":\\\"\\\",\\\"平移-参数数字 X\\\":\\\"174\\\",\\\"平移-参数数字 Y\\\":\\\"134\\\",\\\"整体旋转角度\\\":\\\"0\\\",\\\"资源-基本符号\\\":\\\"主菜单-怒气数值\\\",\\\"资源-扩展符号\\\":\\\"\\\",\\\"---符号---\\\":\\\"\\\",\\\"是否显示负号\\\":\\\"true\\\",\\\"额外符号前缀\\\":\\\"\\\",\\\"额外符号后缀\\\":\\\"\\\",\\\"---排列---\\\":\\\"\\\",\\\"对齐方式\\\":\\\"右对齐\\\",\\\"最大符号数量\\\":\\\"20\\\",\\\"符号间间距\\\":\\\"0\\\",\\\"排列宽度模式\\\":\\\"不限制宽度\\\",\\\"排列限制宽度\\\":\\\"300\\\",\\\"---滚动效果---\\\":\\\"\\\",\\\"滚动模式\\\":\\\"弹性滚动\\\",\\\"弹性变化速度\\\":\\\"3.0\\\",\\\"---额定值---\\\":\\\"\\\",\\\"是否显示额定值\\\":\\\"true\\\",\\\"达到条件时符号\\\":\\\"不变化\\\",\\\"资源-额定基本符号\\\":\\\"\\\",\\\"资源-额定扩展符号\\\":\\\"\\\"}\",\"经验-是否显示参数数字\":\"false\",\"经验-参数数字配置\":\"{\\\"---主体---\\\":\\\"\\\",\\\"平移-参数数字 X\\\":\\\"189\\\",\\\"平移-参数数字 Y\\\":\\\"157\\\",\\\"整体旋转角度\\\":\\\"0\\\",\\\"资源-基本符号\\\":\\\"主菜单-经验数值\\\",\\\"资源-扩展符号\\\":\\\"\\\",\\\"---符号---\\\":\\\"\\\",\\\"是否显示负号\\\":\\\"true\\\",\\\"额外符号前缀\\\":\\\"\\\",\\\"额外符号后缀\\\":\\\"\\\",\\\"---排列---\\\":\\\"\\\",\\\"对齐方式\\\":\\\"右对齐\\\",\\\"最大符号数量\\\":\\\"20\\\",\\\"符号间间距\\\":\\\"0\\\",\\\"排列宽度模式\\\":\\\"不限制宽度\\\",\\\"排列限制宽度\\\":\\\"300\\\",\\\"---滚动效果---\\\":\\\"\\\",\\\"滚动模式\\\":\\\"弹性滚动\\\",\\\"弹性变化速度\\\":\\\"10.0\\\",\\\"---额定值---\\\":\\\"\\\",\\\"是否显示额定值\\\":\\\"true\\\",\\\"达到条件时符号\\\":\\\"不变化\\\",\\\"资源-额定基本符号\\\":\\\"\\\",\\\"资源-额定扩展符号\\\":\\\"\\\"}\",\"等级-是否显示参数数字\":\"false\",\"等级-参数数字配置\":\"{\\\"---主体---\\\":\\\"\\\",\\\"平移-参数数字 X\\\":\\\"73\\\",\\\"平移-参数数字 Y\\\":\\\"52\\\",\\\"整体旋转角度\\\":\\\"0\\\",\\\"资源-基本符号\\\":\\\"主菜单-等级数值\\\",\\\"资源-扩展符号\\\":\\\"\\\",\\\"---符号---\\\":\\\"\\\",\\\"是否显示负号\\\":\\\"true\\\",\\\"额外符号前缀\\\":\\\"\\\",\\\"额外符号后缀\\\":\\\"\\\",\\\"---排列---\\\":\\\"\\\",\\\"对齐方式\\\":\\\"居中\\\",\\\"最大符号数量\\\":\\\"20\\\",\\\"符号间间距\\\":\\\"0\\\",\\\"排列宽度模式\\\":\\\"不限制宽度\\\",\\\"排列限制宽度\\\":\\\"300\\\",\\\"---滚动效果---\\\":\\\"\\\",\\\"滚动模式\\\":\\\"弹性滚动\\\",\\\"弹性变化速度\\\":\\\"10.0\\\",\\\"---额定值---\\\":\\\"\\\",\\\"是否显示额定值\\\":\\\"false\\\",\\\"达到条件时符号\\\":\\\"不变化\\\",\\\"资源-额定基本符号\\\":\\\"\\\",\\\"资源-额定扩展符号\\\":\\\"\\\"}\",\"----外框----\":\"\",\"资源-固定框背景\":\"\",\"平移-固定框背景 X\":\"0\",\"平移-固定框背景 Y\":\"0\",\"资源-固定框前景\":\"\",\"平移-固定框前景 X\":\"0\",\"平移-固定框前景 Y\":\"0\",\"----姓名显示----\":\"\",\"是否显示姓名\":\"false\",\"平移-姓名 X\":\"94\",\"平移-姓名 Y\":\"51\",\"姓名字体大小\":\"20\",\"姓名对齐方式\":\"左对齐\",\"----职业显示----\":\"\",\"是否显示职业\":\"false\",\"平移-职业 X\":\"164\",\"平移-职业 Y\":\"51\",\"职业字体大小\":\"20\",\"职业对齐方式\":\"左对齐\",\"----昵称显示----\":\"\",\"是否显示昵称\":\"false\",\"平移-昵称 X\":\"164\",\"平移-昵称 Y\":\"74\",\"昵称字体大小\":\"20\",\"昵称对齐方式\":\"左对齐\",\"----状态显示----\":\"\",\"是否显示状态\":\"true\",\"平移-状态 X\":\"229\",\"平移-状态 Y\":\"62\",\"状态显示模式\":\"单一闪烁\",\"状态对齐方式\":\"左对齐\",\"状态间距\":\"0\",\"最大显示状态数量\":\"4\"}","角色固定框样式-2":"{\"标签\":\"--无tp条样式--\",\"----参数条----\":\"\",\"生命-是否显示参数条\":\"true\",\"生命-参数条配置\":\"{\\\"---主体---\\\":\\\"\\\",\\\"平移-参数条 X\\\":\\\"50\\\",\\\"平移-参数条 Y\\\":\\\"98\\\",\\\"整体旋转角度\\\":\\\"0\\\",\\\"资源-参数条\\\":\\\"主菜单-生命条\\\",\\\"资源-参数条遮罩\\\":\\\"\\\",\\\"---加满动画---\\\":\\\"\\\",\\\"是否启用加满动画\\\":\\\"true\\\",\\\"加满方式\\\":\\\"匀速加满\\\",\\\"加满持续时间\\\":\\\"20\\\",\\\"加满延迟\\\":\\\"10\\\",\\\"---段---\\\":\\\"\\\",\\\"是否使用流动效果\\\":\\\"true\\\",\\\"流动方向\\\":\\\"从右往左\\\",\\\"流动速度\\\":\\\"2.2\\\",\\\"流动段划分模式\\\":\\\"三等份划分\\\",\\\"段长度\\\":\\\"0\\\",\\\"---粒子效果---\\\":\\\"\\\",\\\"是否启用粒子效果\\\":\\\"false\\\",\\\"资源-粒子\\\":\\\"参数条-默认粒子\\\",\\\"粒子出现模式\\\":\\\"底部出现\\\",\\\"粒子X速度\\\":\\\"0\\\",\\\"粒子Y速度\\\":\\\"-1.5\\\",\\\"粒子数量\\\":\\\"20\\\",\\\"粒子持续时间\\\":\\\"20\\\",\\\"---游标---\\\":\\\"\\\",\\\"是否启用游标\\\":\\\"false\\\",\\\"资源-游标\\\":\\\"[\\\\\\\"参数条-默认游标\\\\\\\"]\\\",\\\"动画帧间隔\\\":\\\"4\\\",\\\"是否倒放\\\":\\\"false\\\",\\\"偏移-游标 X\\\":\\\"0\\\",\\\"偏移-游标 Y\\\":\\\"0\\\",\\\"游标显示模式\\\":\\\"一直显示\\\",\\\"遮罩是否能遮挡游标\\\":\\\"false\\\"}\",\"魔法-是否显示参数条\":\"true\",\"魔法-参数条配置\":\"{\\\"---主体---\\\":\\\"\\\",\\\"平移-参数条 X\\\":\\\"57\\\",\\\"平移-参数条 Y\\\":\\\"124\\\",\\\"整体旋转角度\\\":\\\"0\\\",\\\"资源-参数条\\\":\\\"主菜单-魔法条\\\",\\\"资源-参数条遮罩\\\":\\\"\\\",\\\"---加满动画---\\\":\\\"\\\",\\\"是否启用加满动画\\\":\\\"true\\\",\\\"加满方式\\\":\\\"匀速加满\\\",\\\"加满持续时间\\\":\\\"20\\\",\\\"加满延迟\\\":\\\"10\\\",\\\"---段---\\\":\\\"\\\",\\\"是否使用流动效果\\\":\\\"true\\\",\\\"流动方向\\\":\\\"从右往左\\\",\\\"流动速度\\\":\\\"2.5\\\",\\\"流动段划分模式\\\":\\\"三等份划分\\\",\\\"段长度\\\":\\\"0\\\",\\\"---粒子效果---\\\":\\\"\\\",\\\"是否启用粒子效果\\\":\\\"false\\\",\\\"资源-粒子\\\":\\\"参数条-默认粒子\\\",\\\"粒子出现模式\\\":\\\"底部出现\\\",\\\"粒子X速度\\\":\\\"0\\\",\\\"粒子Y速度\\\":\\\"-1.5\\\",\\\"粒子数量\\\":\\\"20\\\",\\\"粒子持续时间\\\":\\\"20\\\",\\\"---游标---\\\":\\\"\\\",\\\"是否启用游标\\\":\\\"false\\\",\\\"资源-游标\\\":\\\"[\\\\\\\"参数条-默认游标\\\\\\\"]\\\",\\\"动画帧间隔\\\":\\\"4\\\",\\\"是否倒放\\\":\\\"false\\\",\\\"偏移-游标 X\\\":\\\"0\\\",\\\"偏移-游标 Y\\\":\\\"0\\\",\\\"游标显示模式\\\":\\\"一直显示\\\",\\\"遮罩是否能遮挡游标\\\":\\\"false\\\"}\",\"怒气-是否显示参数条\":\"false\",\"怒气-参数条配置\":\"{}\",\"经验-是否显示参数条\":\"true\",\"经验-参数条配置\":\"{\\\"---主体---\\\":\\\"\\\",\\\"平移-参数条 X\\\":\\\"65\\\",\\\"平移-参数条 Y\\\":\\\"151\\\",\\\"整体旋转角度\\\":\\\"0\\\",\\\"资源-参数条\\\":\\\"主菜单-经验条\\\",\\\"资源-参数条遮罩\\\":\\\"\\\",\\\"---加满动画---\\\":\\\"\\\",\\\"是否启用加满动画\\\":\\\"true\\\",\\\"加满方式\\\":\\\"匀速加满\\\",\\\"加满持续时间\\\":\\\"20\\\",\\\"加满延迟\\\":\\\"10\\\",\\\"---段---\\\":\\\"\\\",\\\"是否使用流动效果\\\":\\\"true\\\",\\\"流动方向\\\":\\\"从右往左\\\",\\\"流动速度\\\":\\\"3.0\\\",\\\"流动段划分模式\\\":\\\"三等份划分\\\",\\\"段长度\\\":\\\"0\\\",\\\"---粒子效果---\\\":\\\"\\\",\\\"是否启用粒子效果\\\":\\\"false\\\",\\\"资源-粒子\\\":\\\"参数条-默认粒子\\\",\\\"粒子出现模式\\\":\\\"底部出现\\\",\\\"粒子X速度\\\":\\\"0\\\",\\\"粒子Y速度\\\":\\\"-1.5\\\",\\\"粒子数量\\\":\\\"20\\\",\\\"粒子持续时间\\\":\\\"20\\\",\\\"---游标---\\\":\\\"\\\",\\\"是否启用游标\\\":\\\"false\\\",\\\"资源-游标\\\":\\\"[\\\\\\\"参数条-默认游标\\\\\\\"]\\\",\\\"动画帧间隔\\\":\\\"4\\\",\\\"是否倒放\\\":\\\"false\\\",\\\"偏移-游标 X\\\":\\\"0\\\",\\\"偏移-游标 Y\\\":\\\"0\\\",\\\"游标显示模式\\\":\\\"一直显示\\\",\\\"遮罩是否能遮挡游标\\\":\\\"false\\\"}\",\"----参数数字----\":\"\",\"生命-是否显示参数数字\":\"true\",\"生命-参数数字配置\":\"{\\\"---主体---\\\":\\\"\\\",\\\"平移-参数数字 X\\\":\\\"174\\\",\\\"平移-参数数字 Y\\\":\\\"97\\\",\\\"整体旋转角度\\\":\\\"0\\\",\\\"资源-基本符号\\\":\\\"主菜单-生命数值\\\",\\\"资源-扩展符号\\\":\\\"\\\",\\\"---符号---\\\":\\\"\\\",\\\"是否显示负号\\\":\\\"true\\\",\\\"额外符号前缀\\\":\\\"\\\",\\\"额外符号后缀\\\":\\\"\\\",\\\"---排列---\\\":\\\"\\\",\\\"对齐方式\\\":\\\"右对齐\\\",\\\"最大符号数量\\\":\\\"20\\\",\\\"符号间间距\\\":\\\"0\\\",\\\"排列宽度模式\\\":\\\"不限制宽度\\\",\\\"排列限制宽度\\\":\\\"300\\\",\\\"---滚动效果---\\\":\\\"\\\",\\\"滚动模式\\\":\\\"弹性滚动\\\",\\\"弹性变化速度\\\":\\\"3.0\\\",\\\"---额定值---\\\":\\\"\\\",\\\"是否显示额定值\\\":\\\"true\\\",\\\"达到条件时符号\\\":\\\"不变化\\\",\\\"资源-额定基本符号\\\":\\\"\\\",\\\"资源-额定扩展符号\\\":\\\"\\\"}\",\"魔法-是否显示参数数字\":\"true\",\"魔法-参数数字配置\":\"{\\\"---主体---\\\":\\\"\\\",\\\"平移-参数数字 X\\\":\\\"180\\\",\\\"平移-参数数字 Y\\\":\\\"123\\\",\\\"整体旋转角度\\\":\\\"0\\\",\\\"资源-基本符号\\\":\\\"主菜单-魔法数值\\\",\\\"资源-扩展符号\\\":\\\"\\\",\\\"---符号---\\\":\\\"\\\",\\\"是否显示负号\\\":\\\"true\\\",\\\"额外符号前缀\\\":\\\"\\\",\\\"额外符号后缀\\\":\\\"\\\",\\\"---排列---\\\":\\\"\\\",\\\"对齐方式\\\":\\\"右对齐\\\",\\\"最大符号数量\\\":\\\"20\\\",\\\"符号间间距\\\":\\\"0\\\",\\\"排列宽度模式\\\":\\\"不限制宽度\\\",\\\"排列限制宽度\\\":\\\"300\\\",\\\"---滚动效果---\\\":\\\"\\\",\\\"滚动模式\\\":\\\"弹性滚动\\\",\\\"弹性变化速度\\\":\\\"3.0\\\",\\\"---额定值---\\\":\\\"\\\",\\\"是否显示额定值\\\":\\\"true\\\",\\\"达到条件时符号\\\":\\\"不变化\\\",\\\"资源-额定基本符号\\\":\\\"\\\",\\\"资源-额定扩展符号\\\":\\\"\\\"}\",\"怒气-是否显示参数数字\":\"false\",\"怒气-参数数字配置\":\"{}\",\"经验-是否显示参数数字\":\"true\",\"经验-参数数字配置\":\"{\\\"---主体---\\\":\\\"\\\",\\\"平移-参数数字 X\\\":\\\"189\\\",\\\"平移-参数数字 Y\\\":\\\"150\\\",\\\"整体旋转角度\\\":\\\"0\\\",\\\"资源-基本符号\\\":\\\"主菜单-经验数值\\\",\\\"资源-扩展符号\\\":\\\"\\\",\\\"---符号---\\\":\\\"\\\",\\\"是否显示负号\\\":\\\"true\\\",\\\"额外符号前缀\\\":\\\"\\\",\\\"额外符号后缀\\\":\\\"\\\",\\\"---排列---\\\":\\\"\\\",\\\"对齐方式\\\":\\\"右对齐\\\",\\\"最大符号数量\\\":\\\"20\\\",\\\"符号间间距\\\":\\\"0\\\",\\\"排列宽度模式\\\":\\\"不限制宽度\\\",\\\"排列限制宽度\\\":\\\"300\\\",\\\"---滚动效果---\\\":\\\"\\\",\\\"滚动模式\\\":\\\"弹性滚动\\\",\\\"弹性变化速度\\\":\\\"10.0\\\",\\\"---额定值---\\\":\\\"\\\",\\\"是否显示额定值\\\":\\\"true\\\",\\\"达到条件时符号\\\":\\\"不变化\\\",\\\"资源-额定基本符号\\\":\\\"\\\",\\\"资源-额定扩展符号\\\":\\\"\\\"}\",\"等级-是否显示参数数字\":\"true\",\"等级-参数数字配置\":\"{\\\"---主体---\\\":\\\"\\\",\\\"平移-参数数字 X\\\":\\\"73\\\",\\\"平移-参数数字 Y\\\":\\\"52\\\",\\\"整体旋转角度\\\":\\\"0\\\",\\\"资源-基本符号\\\":\\\"主菜单-等级数值\\\",\\\"资源-扩展符号\\\":\\\"\\\",\\\"---符号---\\\":\\\"\\\",\\\"是否显示负号\\\":\\\"true\\\",\\\"额外符号前缀\\\":\\\"\\\",\\\"额外符号后缀\\\":\\\"\\\",\\\"---排列---\\\":\\\"\\\",\\\"对齐方式\\\":\\\"居中\\\",\\\"最大符号数量\\\":\\\"20\\\",\\\"符号间间距\\\":\\\"0\\\",\\\"排列宽度模式\\\":\\\"不限制宽度\\\",\\\"排列限制宽度\\\":\\\"300\\\",\\\"---滚动效果---\\\":\\\"\\\",\\\"滚动模式\\\":\\\"弹性滚动\\\",\\\"弹性变化速度\\\":\\\"10.0\\\",\\\"---额定值---\\\":\\\"\\\",\\\"是否显示额定值\\\":\\\"false\\\",\\\"达到条件时符号\\\":\\\"不变化\\\",\\\"资源-额定基本符号\\\":\\\"\\\",\\\"资源-额定扩展符号\\\":\\\"\\\"}\",\"----外框----\":\"\",\"资源-固定框背景\":\"\",\"平移-固定框背景 X\":\"0\",\"平移-固定框背景 Y\":\"0\",\"资源-固定框前景\":\"主菜单-角色面板(无tp)\",\"平移-固定框前景 X\":\"0\",\"平移-固定框前景 Y\":\"0\",\"----姓名显示----\":\"\",\"是否显示姓名\":\"true\",\"平移-姓名 X\":\"94\",\"平移-姓名 Y\":\"51\",\"姓名字体大小\":\"20\",\"----状态显示----\":\"\",\"是否显示状态\":\"true\",\"平移-状态 X\":\"229\",\"平移-状态 Y\":\"62\",\"状态显示模式\":\"单一闪烁\",\"状态对齐方式\":\"左对齐\",\"状态间距\":\"0\",\"最大显示状态数量\":\"4\"}","角色固定框样式-3":"","角色固定框样式-4":"","角色固定框样式-5":"","角色固定框样式-6":"","角色固定框样式-7":"","角色固定框样式-8":"","固定框组":"{\"---主体---\":\"\",\"平移-固定框组 X\":\"0\",\"平移-固定框组 Y\":\"0\",\"角色框数量上限\":\"1\",\"无角色时是否仍然显示框\":\"true\",\"无角色时设置\":\"{\\\"标签\\\":\\\"--空角色框--\\\",\\\"---绑定---\\\":\\\"\\\",\\\"绑定的样式\\\":\\\"1\\\",\\\"---角色前视图---\\\":\\\"\\\",\\\"是否显示角色前视图\\\":\\\"false\\\",\\\"资源-角色前视图\\\":\\\"[]\\\",\\\"帧间隔\\\":\\\"4\\\",\\\"是否倒放\\\":\\\"false\\\",\\\"平移-角色前视图 X\\\":\\\"0\\\",\\\"平移-角色前视图 Y\\\":\\\"0\\\"}\",\"固定框组移动动画\":\"{\\\"移动类型\\\":\\\"弹性移动\\\",\\\"移动时长\\\":\\\"50\\\",\\\"移动延迟\\\":\\\"0\\\",\\\"依次移动延迟间隔\\\":\\\"20\\\",\\\"---起点---\\\":\\\"\\\",\\\"坐标类型\\\":\\\"各固定框的相对坐标\\\",\\\"起点-相对坐标 X\\\":\\\"0\\\",\\\"起点-相对坐标 Y\\\":\\\"80\\\",\\\"起点-统一坐标 X\\\":\\\"408\\\",\\\"起点-统一坐标 Y\\\":\\\"312\\\"}\",\"---排列---\":\"\",\"排列方式\":\"固定离散排列\",\"==直线排列==\":\"\",\"直线间距\":\"192\",\"直线W间距\":\"48\",\"直线旋转角度\":\"0\",\"是否限制最大长度\":\"false\",\"直线最大长度\":\"600\",\"==环形排列==\":\"\",\"环形半径\":\"192\",\"环形起始角\":\"0\",\"环形终止角\":\"360\",\"==矩阵排列==\":\"\",\"矩阵列数\":\"4\",\"矩阵列宽\":\"192\",\"矩阵行高\":\"192\",\"==固定离散排列==\":\"\",\"固定离散位置序列\":\"[\\\"10,250\\\",\\\"590,250\\\"]\"}","备用角色前视图列表":"[]","---角色框设置 1至20---":"","角色框设置-1":"","角色框设置-2":"","角色框设置-3":"","角色框设置-4":"","角色框设置-5":"","角色框设置-6":"","角色框设置-7":"","角色框设置-8":"","角色框设置-9":"","角色框设置-10":"","角色框设置-11":"","角色框设置-12":"","角色框设置-13":"","角色框设置-14":"","角色框设置-15":"","角色框设置-16":"","角色框设置-17":"","角色框设置-18":"","角色框设置-19":"","角色框设置-20":"","---角色框设置21至40---":"","角色框设置-21":"","角色框设置-22":"","角色框设置-23":"","角色框设置-24":"","角色框设置-25":"","角色框设置-26":"","角色框设置-27":"","角色框设置-28":"","角色框设置-29":"","角色框设置-30":"","角色框设置-31":"","角色框设置-32":"","角色框设置-33":"","角色框设置-34":"","角色框设置-35":"","角色框设置-36":"","角色框设置-37":"","角色框设置-38":"","角色框设置-39":"","角色框设置-40":"","---角色框设置41至60---":"","角色框设置-41":"","角色框设置-42":"","角色框设置-43":"","角色框设置-44":"","角色框设置-45":"","角色框设置-46":"","角色框设置-47":"","角色框设置-48":"","角色框设置-49":"","角色框设置-50":"","角色框设置-51":"","角色框设置-52":"","角色框设置-53":"","角色框设置-54":"","角色框设置-55":"","角色框设置-56":"","角色框设置-57":"","角色框设置-58":"","角色框设置-59":"","角色框设置-60":""}}
